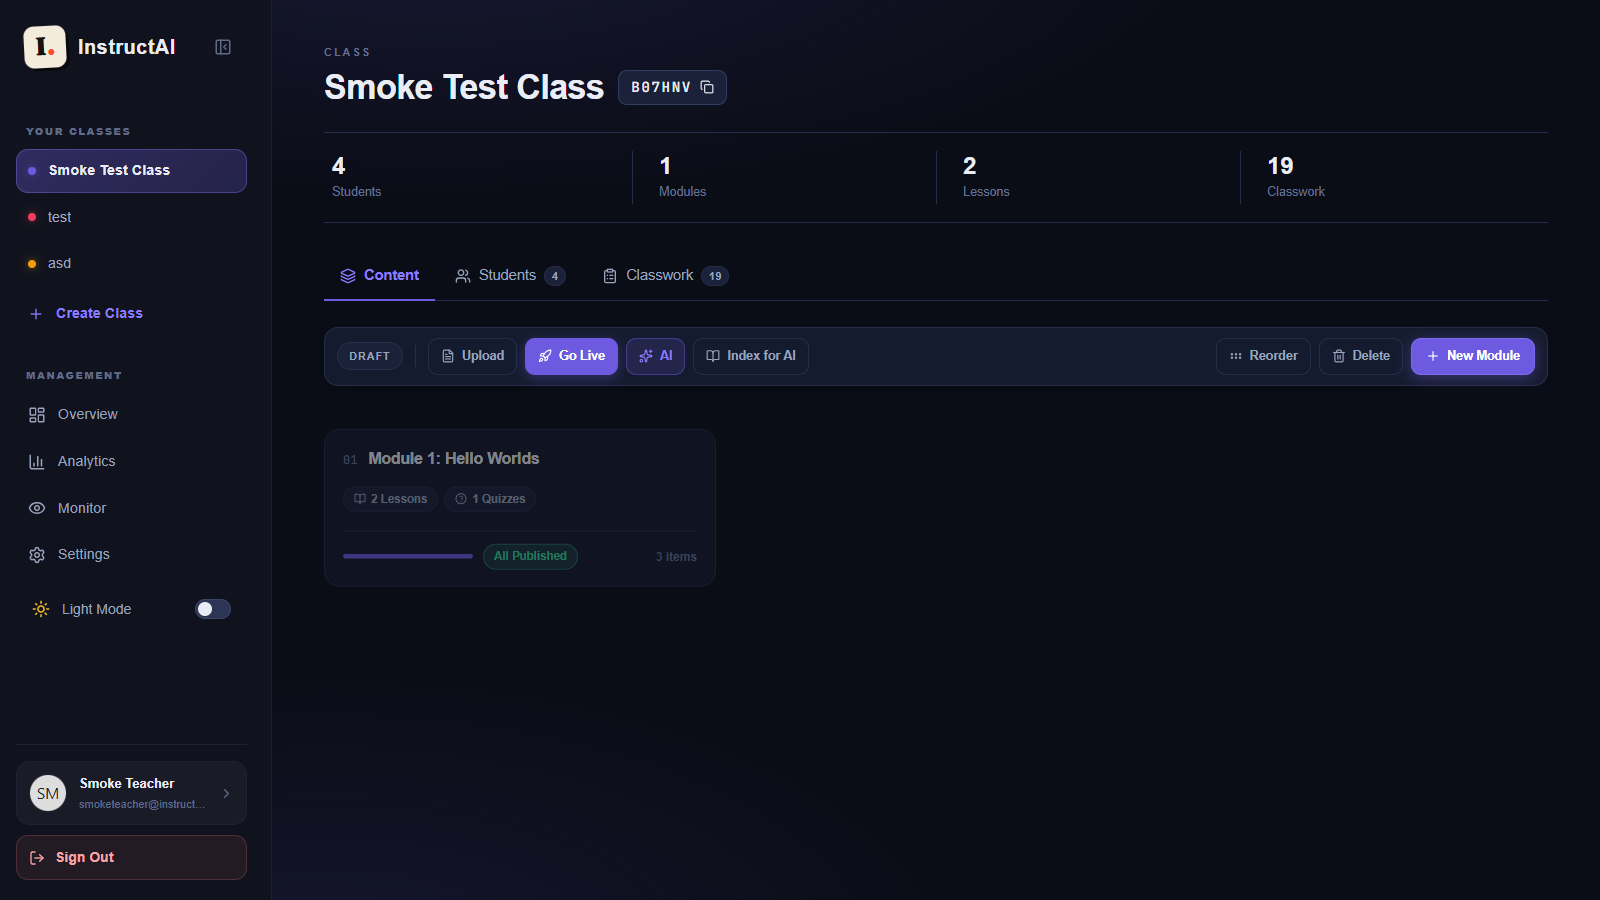
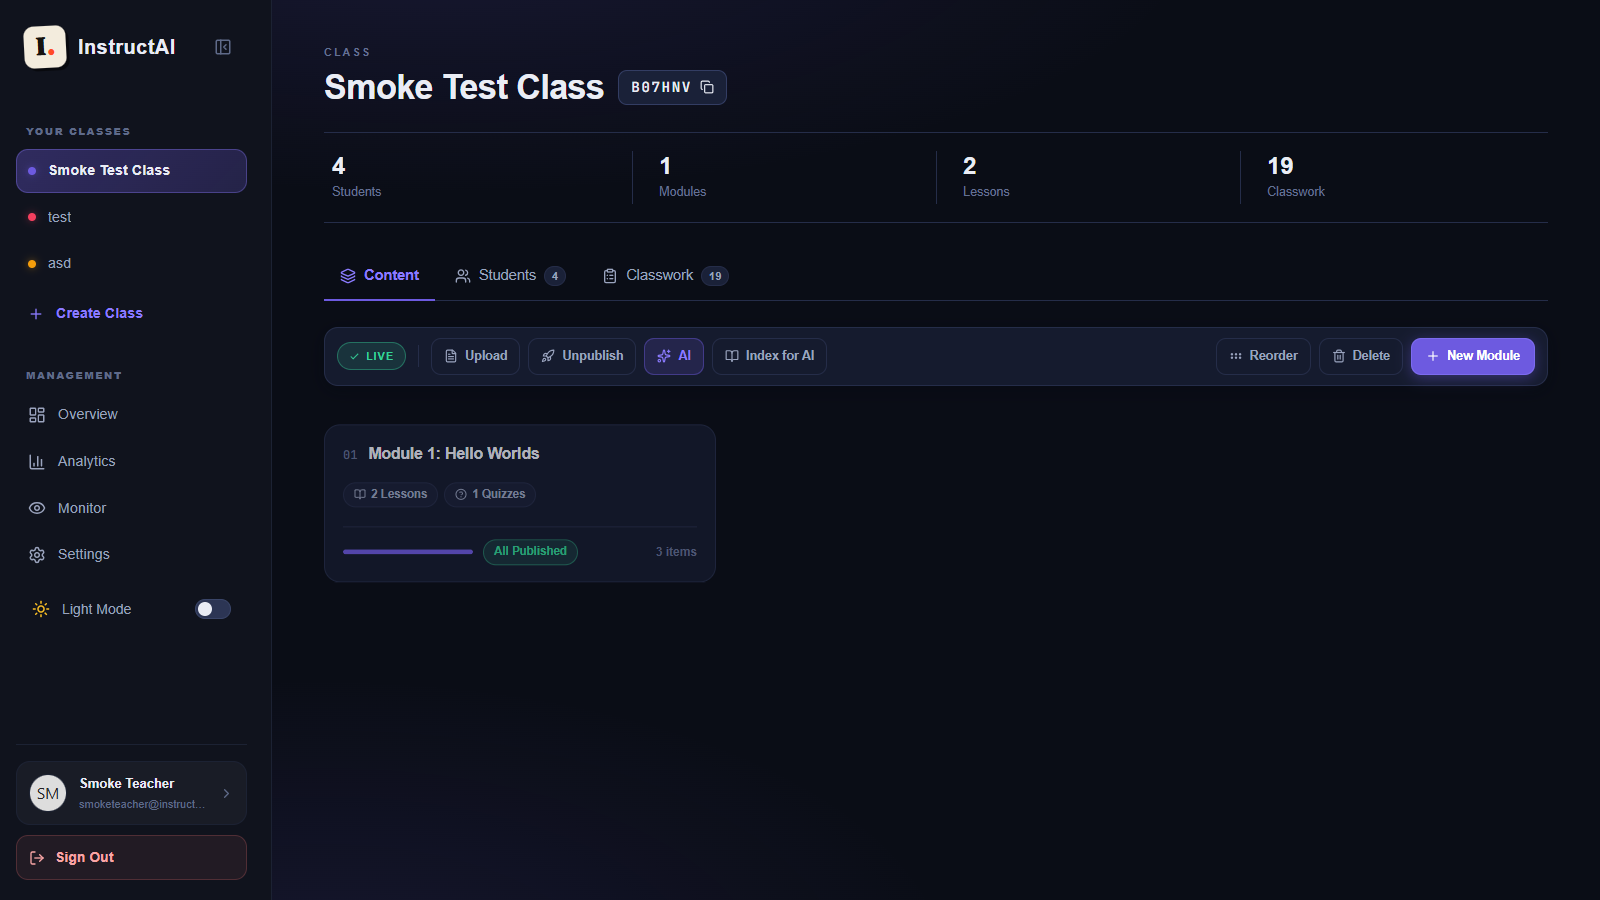
fix: chip no longer shows Draft for a course the cache knows is Live
On embedded remount, isPublished initialized to false regardless of the cached course state, so switching classes and back showed Draft until the background refetch landed. It now seeds from initialCourse. Verified in real Edge: Go Live -> switch away -> back shows Live on first paint (158ms), zero console errors.

diff --git a/frontend/src/pages/teacher/CourseBuilder.jsx b/frontend/src/pages/teacher/CourseBuilder.jsx
@@ -43,7 +43,9 @@ export default function CourseBuilder({ courseId = null, embedded = false, initi
     } : null;
     const [course, setCourse] = useState(() => enrichCourse(initialCourse));
     const [loading, setLoading] = useState(!initialCourse);
-    const [isPublished, setIsPublished] = useState(false);
+    // Seed from the cached course — a remount must never show a state the
+    // cache already knows is wrong.
+    const [isPublished, setIsPublished] = useState(Boolean(initialCourse?.is_published));
     
     // UI View States
     const [activeModuleId, setActiveModuleId] = useState(null);
